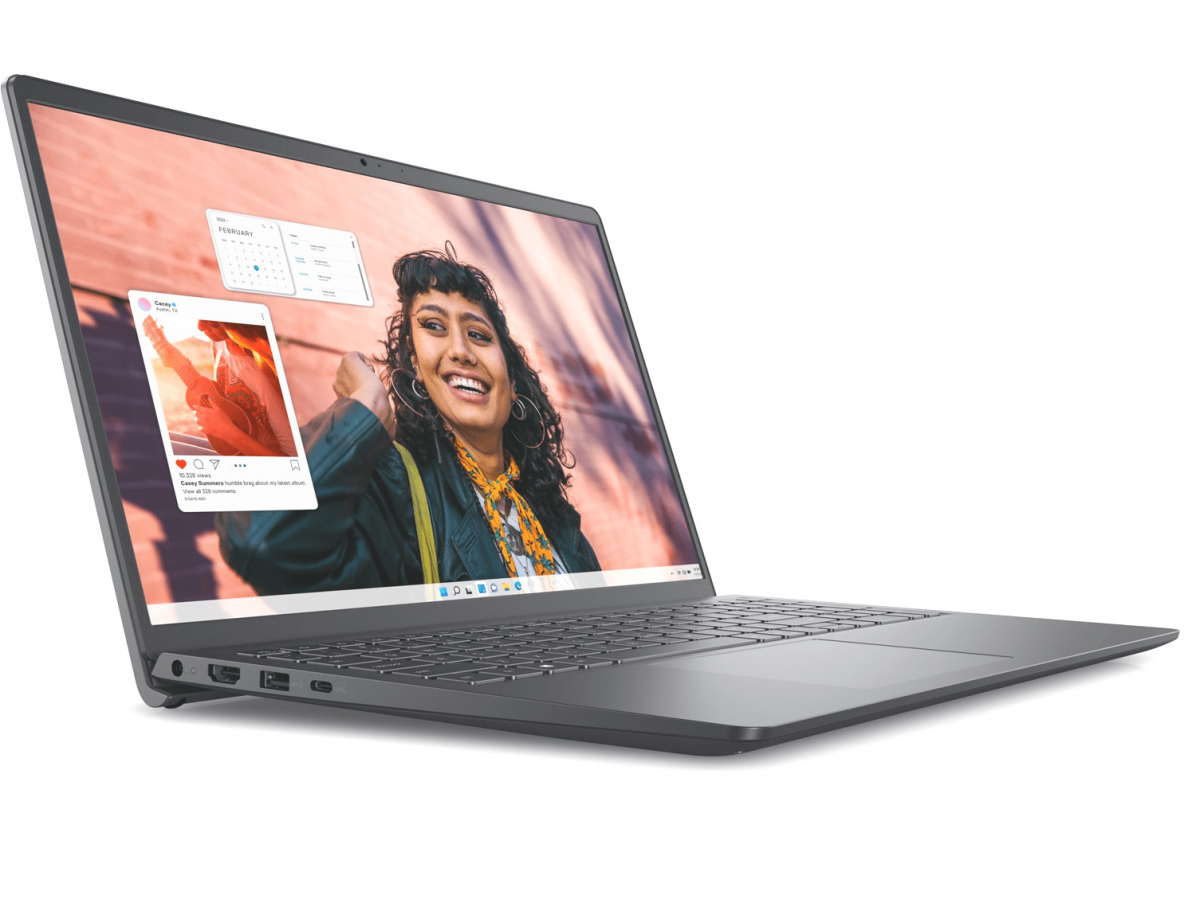
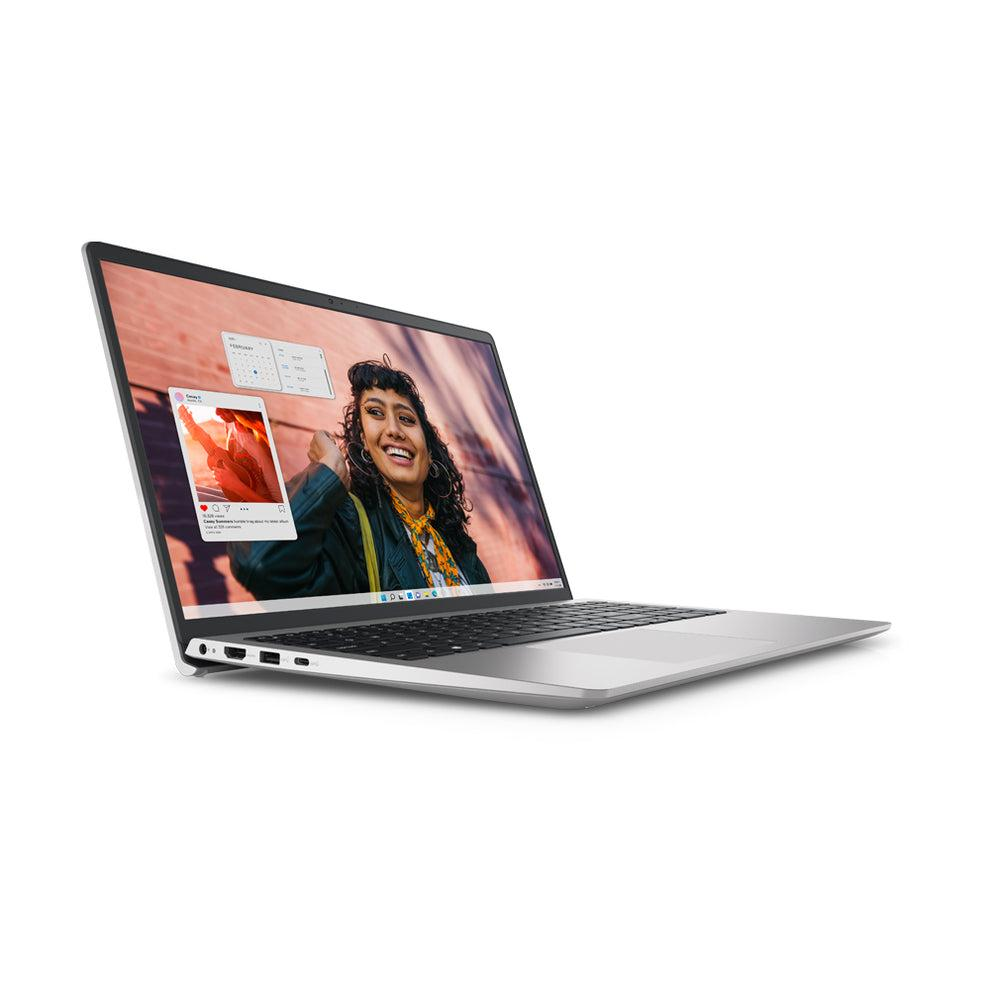
cập nhật ảnh sản phẩm

diff --git a/src/components/ProductCard.css b/src/components/ProductCard.css
@@ -23,14 +23,23 @@
     display: flex;
     flex-direction: column;
     min-width: 0;
-    background: var(--ui-bg);
+    background: #ffffff;
+    border: 1px solid var(--ui-border);
+    border-radius: var(--ui-radius-control);
+    overflow: hidden;
+    transition: border-color 0.2s ease, box-shadow 0.2s ease;
+}
+
+.product-card:hover {
+    border-color: #d4d4d8;
+    box-shadow: 0 4px 14px rgba(0, 0, 0, 0.05);
 }
 
 .product-card__media {
     position: relative;
     aspect-ratio: 1 / 1;
-    background: var(--ui-surface-alt);
-    border-radius: var(--ui-radius-card);
+    background: #ffffff;
+    border-bottom: 1px solid #f1f1f1;
     overflow: hidden;
 }
 
@@ -47,6 +56,7 @@
     height: 100%;
     object-fit: contain;
     display: block;
+    mix-blend-mode: multiply;
     transition: transform 0.4s ease;
 }
 
@@ -97,7 +107,7 @@
     display: flex;
     flex-direction: column;
     flex: 1;
-    padding: 12px 2px 0;
+    padding: 12px 14px 14px;
 }
 
 .product-card__name {

diff --git a/src/pages/ProductDetailPage.css b/src/pages/ProductDetailPage.css
@@ -40,7 +40,8 @@
     display: flex;
     align-items: center;
     justify-content: center;
-    background: var(--ui-surface-alt);
+    background: #ffffff;
+    border: 1px solid var(--ui-border);
     border-radius: var(--ui-radius-card);
     overflow: hidden;
 }
@@ -50,6 +51,7 @@
     height: 100%;
     object-fit: contain;
     display: block;
+    mix-blend-mode: multiply;
 }
 
 .product-detail-image > img {
@@ -57,6 +59,7 @@
     width: 100%;
     max-height: 420px;
     object-fit: contain;
+    mix-blend-mode: multiply;
     border-radius: inherit;
 }
 
